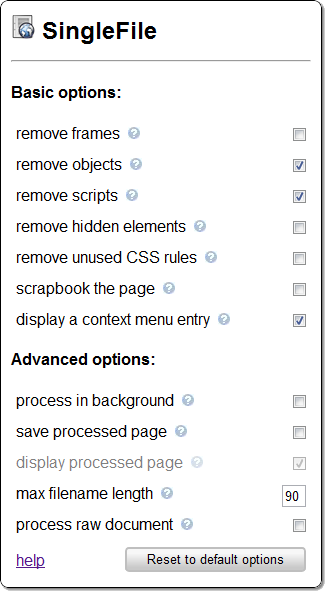
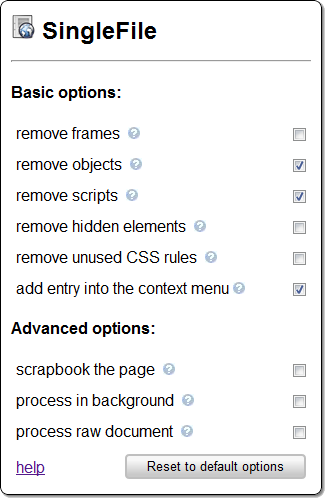
updated help

diff --git a/WebContent/ui/pages/help.html b/WebContent/ui/pages/help.html
@@ -18,8 +18,8 @@ folder</a> - <a href="#notes">Technical notes</a> - <a href="#knownIssues">Known
 	<li><a id="instructions">Instructions</a>
 	<ul>
 		<li>wait until the page is fully loaded : you may need to scroll down the entire page and hover dynamic document elements (e.g. "rollover" images) to be sure all elements
-		are displayed</li>
-		<li>click on the SingleFile icon <img src="../resources/icon_19.png" id="icon"> in the Chrome toolbar or press Ctrl-Shift-S shortcut or use context menu to launch page
+		are loaded</li>
+		<li>click on the SingleFile icon <img src="../resources/icon_19.png" id="icon"> in the Chrome toolbar or press Ctrl-Shift-S or use context menu to launch page
 		processing</li>
 		<li>wait until the shadow disappears then hit Ctrl-S or select "Save as" in the wrench menu and save the page</li>
 		<li>all images, style sheets and frame contents are embedded into the ".htm" saved file</li>
@@ -46,13 +46,13 @@ folder</a> - <a href="#notes">Technical notes</a> - <a href="#knownIssues">Known
 		</li>
 
 		<li><span class="option">remove objects</span>
-		<p>Check this option to remove all non embeddable elements : flash objects, java applets ...</p>
+		<p>Check this option to remove all non embeddable elements : flash objects, java applets ... Permission restrictions prevent them to be executed when they are embedded in the document.</p>
 		<p class="notice">It is recommended to <u>check</u> this option</p>
 		</li>
 
 		<li><span class="option">remove scripts</span>
 		<p>Check this option if you do not want to save scripts. Most of the time, you do not need scripts in the saved page. Thus they can alter it. Nevertheless if you want to save
-		page dynamic behavior then uncheck this option. If you uncheck this option then it is strongly recommended to check <span class="option">process raw document</span> option.</p>
+		page dynamic behavior then uncheck this option. If you uncheck this option then you should also check <span class="option">process raw document</span> option to keep page integrity.</p>
 		<p class="notice">It is recommended to <u>check</u> this option</p>
 		</li>
 
@@ -67,73 +67,32 @@ folder</a> - <a href="#notes">Technical notes</a> - <a href="#knownIssues">Known
 		this option, it may also introduce some incompatibilities issues in the saved page when opening it into another browser (i.e. not based on Webkit).</p>
 		<p class="notice">It is recommended to <u>uncheck</u> this option</p>
 		</li>
-
-		<li><span class="option">scrapbook the page</span>
-		<p>Check this option to send the processed page to <a href="https://chrome.google.com/webstore/detail/ihkkeoeinpbomhnpkmmkpggkaefincbn">Scrapbook for SingleFile</a>.</p>
-		<p class="notice">It is recommended to <u>uncheck</u> this option</p>
-		</li>
-		
 		
 		<li><span class="option">display a context menu entry</span>
-		<p>Check this option to launch processing on a page with context menu.</p>
+		<p>Check this option to launch processing on a page with context menu. This option also helps to process only the selected area in the page.</p>
 		<p class="notice">It is recommended to <u>check</u> this option</p>
+		</li>
+
+		<li><span class="option">send archive to PageArchiver</span>
+		<p>Check this option to send the processed page to <a href="https://chrome.google.com/webstore/detail/ihkkeoeinpbomhnpkmmkpggkaefincbn">PageArchiver</a> chrome extension.</p>
+		<p class="notice">It is recommended to <u>uncheck</u> this option</p>
 		</li>
 
 		<li><span class="option">process in background</span>
-		<p>Check this option to process the page in background. Processing in background means it won't be blocking (only if <span class="option">display processed page</span> option
-		is unchecked). If you uncheck this option, a shadow will prevent you to navigate into the page during the SingleFile processing but it will be faster.</p>
+		<p>Check this option to process the page in background. Processing in background is usually faster but can alter the page.</p>
 		<p class="notice">It is recommended to <u>uncheck</u> this option</p>
-		</li>
-
-		<li><span class="option">save processed page (*)</span>
-		<p>Check this option to save the processed page on filesystem. See <a href="#folder">Saved archives folder</a> for more details about saving folder location. If you check
-		this option and you do not want to use "Save as" dialog box to save the page then you should uncheck <span class="option">display processed page</span> option.</p>
-		<p class="notice">It is recommended to <u>uncheck</u> this option</p>
-		</li>
-
-		<li><span class="option">display processed page (*)</span>
-		<p>Check this option to display the processed page in the tab. This option must be checked if you want to use Chrome "Save as" dialog box to save the page. If you uncheck
-		this option then you should check <span class="option">process in background</span> so the processing won't be blocking: you will just have to wait that "..." label in action
-		icon disappears. Conversely, you should uncheck <span class="option">process in background</span> when this option is checked so the processing will be faster.</p>
-		<p class="notice">It is recommended to <u>check</u> this option</p>
-		</li>
-
-		<li><span class="option">max filename length (*)</span>
-		<p>Set the value of maximum filename length. This value is used when <span class="option">save processed page</span> option is checked. SingleFile cannot guess the maximum
-		filename length allowed by the Operating System so you have to configure it manually.</p>
-		<p class="notice">It is recommended to set this option to <u>90</u> (if you are using Windows)</p>
 		</li>
 
 		<li><span class="option">process raw document</span>
 		<p>Check this option to process the raw downloaded document instead of the displayed document. The main difference is that scripts won't be parsed and executed. Frames won't
-		be embedded too. This option also helps to not alter the saved page when <span class="option">remove scripts</span> is unchecked</p>
+		be embedded too. This option should be checked when <span class="option">remove scripts</span> is unchecked.</p>
 		<p class="notice">It is recommended to <u>uncheck</u> this option</p>
 		</li>
 
 		<li><span class="option">Reset to default options</span>
-		<p>Reset all the options to default (i.e. recommended) state</p>
+		<p>Reset all the options to default (i.e. recommended) state.</p>
 		</li>
 	</ul>
-	</li>
-
-	<li><a id="folder">Saved archives folder (*)</a>
-	<p>When <span class="option">save processed page</span> option is checked, pages are automatically saved on filesystem. However, Chrome will not allow to choose the root
-	folder where archives are stored. Neither it will allow SingleFile to make links pointing to saved files folder. So you have to find "manually" this folder.</p>
-	<p>Files are saved in the extension subfolder of "FileSystem" folder located into Chrome user data folder:</p>
-	<ul style="text-align: left">
-		<li>Windows default path: <br>
-		<span class="option">%LOCALAPPDATA%\Google\Chrome\User&nbsp;Data\Default\FileSystem\chrome-extension_jemlklgaibiijojffihnhieihhagocma_0\Persistent\</span></li>
-		<li>Linux default path: <br>
-		<span class="option">~/.config/google-chrome/Default/FileSystem/chrome-extension_jemlklgaibiijojffihnhieihhagocma_0/Persistent/</span></li>
-		<li>Mac OS X default path: <br>
-		<span class="option">~/Library/Application&nbsp;Support/Google/Chrome/Default/FileSystem/chrome-extension_jemlklgaibiijojffihnhieihhagocma_0/Persistent/</span></li>
-	</ul>
-	<p>You can create shortcuts to access to this folder easily.
-	<p>
-	<p>You can also create symbolic links in order to use sync services like dropbox. Here are the way of doing it on <a
-		href="http://technet.microsoft.com/en-us/library/cc753194(WS.10).aspx">windows (mklink /d)</a> and <a href="http://www.unixtutorial.org/commands/ln/">linux or Mac OS X (ln
-	-s)</a>.</p>
-	<p>You can also change Chrome user data folder with <a href="http://www.chromium.org/user-experience/user-data-directory">--user-data-dir switch</a>.
 	</li>
 
 	<li><a id="notes">Technical notes</a>
@@ -153,11 +112,7 @@ folder</a> - <a href="#notes">Technical notes</a> - <a href="#knownIssues">Known
 		<li>If you are using <a href="https://chrome.google.com/extensions/detail/odjhifogjcknibkahlpidmdajjpkkcfn">NotScripts</a> extension and have issues when using SingleFile
 		then you must add this line in "CHANGE__PASSWORD__HERE.js" file as described <a href="http://optimalcycling.com/other-projects/notscripts/faq/#mitigation">here</a>:<br>
 		<code>const DO_NOT_MITIGATE_INLINE_SCRIPTS = true;</code></li>
-		<li>If <span class="option">process in background</span> is unchecked and <span class="option">display processed page</span> is checked then the page may sometimes be
-		altered after being processed (i.e. some elements are not correctly placed). This issue won't affect the saved page.</li>
 		<li><code>file:///*</code>, <code>chrome://*</code> and <code>https://chrome.google.com/*</code> URIs cannot be processed</li>
-		<li>Some pages make the tab crash when processing (e.g. gmail), however if <span class="option">save processed page</span> is checked then you will be able to open the saved
-		page in another browser</li>
 	</ul>
 	</li>
 
@@ -172,9 +127,5 @@ folder</a> - <a href="#notes">Technical notes</a> - <a href="#knownIssues">Known
 	</ul>
 	</li>
 </ol>
-<br>
-<p class="availability">*: feature only available on Chrome 9+</p>
-<a href="http://www.w3.org/html/logo/"> <img src="../resources/html5-badge-h-storage.png" alt="HTML5 offline & storage logo" id="logo-html5"
-	title="This extension is powered by HTML5 Offline & Storage"> </a></div>
 </body>
 </html>

diff --git a/WebContent/ui/pages/options.html b/WebContent/ui/pages/options.html
@@ -55,9 +55,9 @@
 	</div>
 	<h4>Advanced options:</h4>
 	<div class="option">
-		<label for="getContentInput">scrapbook the page <img class="question-mark" src="../resources/icon_question_mark.jpg"></label> <input type="checkbox" id="getContentInput">
+		<label for="getContentInput">send archive to PageArchiver <img class="question-mark" src="../resources/icon_question_mark.jpg"></label> <input type="checkbox" id="getContentInput">
 		<div class="help">
-			<p>Check this option to send the processed page to Scrapbook for SingleFile.</p>
+			<p>Check this option to send the processed page to PageArchiver chrome extension.</p>
 			<p class="notice">It is recommended to <u>uncheck</u> this option</p>
 		</div>
 	</div>

diff --git a/WebContent/ui/pages/help.css b/WebContent/ui/pages/help.css
@@ -71,7 +71,7 @@ ol>li>ul>li {
 	background-image: url(../resources/options_screen.png);
 	background-repeat: no-repeat;
 	background-position: center center;
-	height: 591px;
+	height: 500px;
 }
 
 #title {
